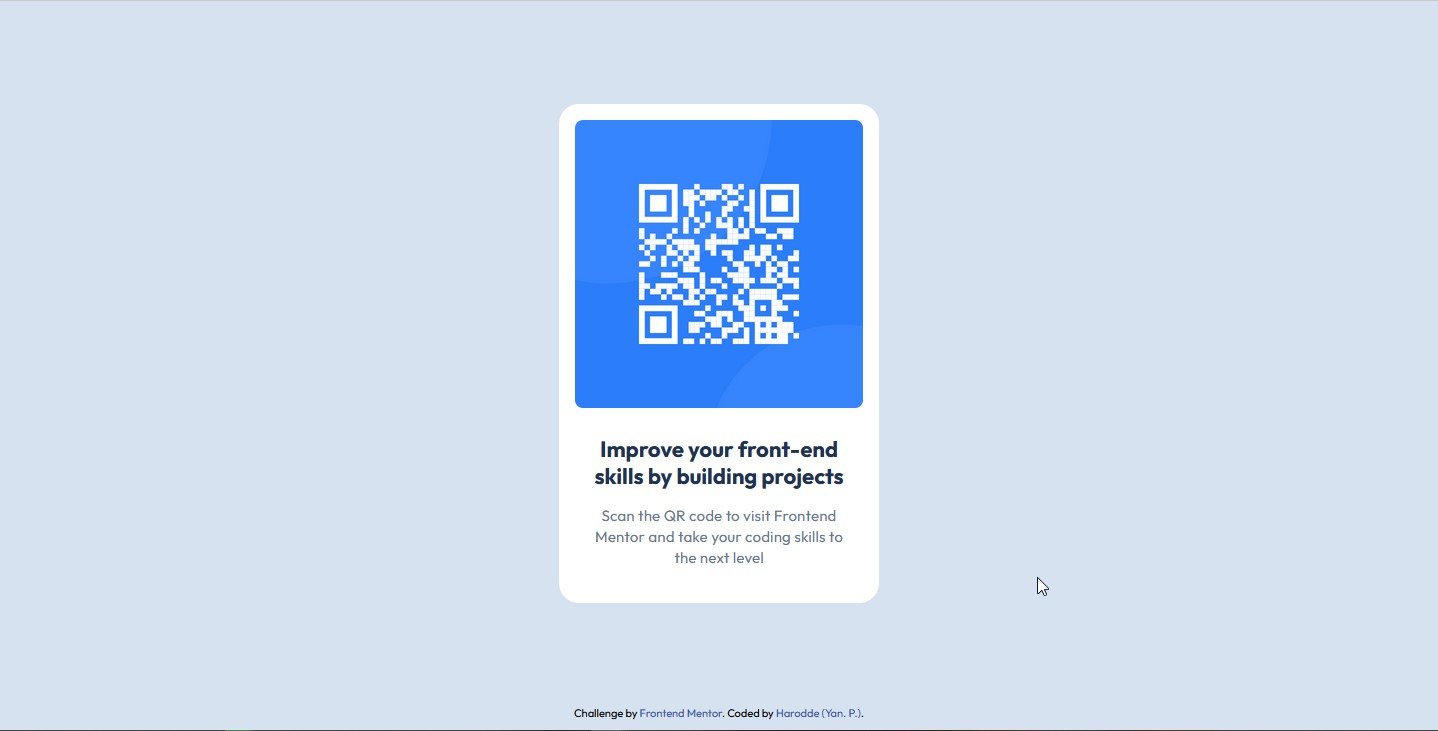
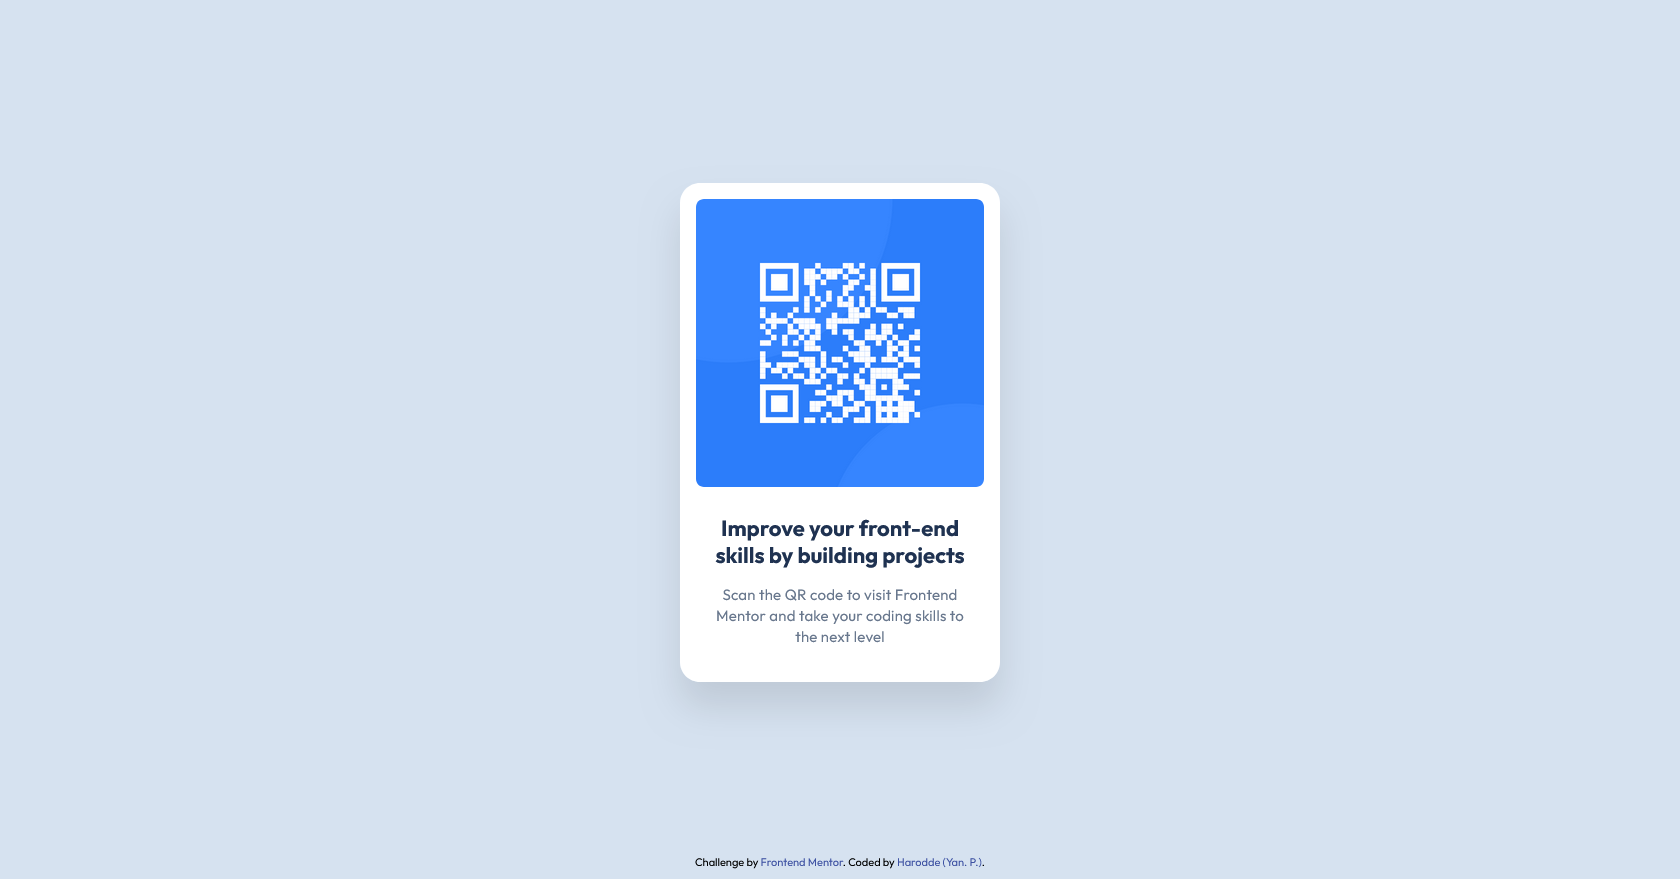
screenshot and box-shadow modification

Changed region(s): [[0.3672, 0.1204, 0.612, 0.8427], [0.0, 0.9631, 1.0, 1.0], [0.7038, 0.7825, 0.7344, 0.8126]]

diff --git a/assets/css/style.css b/assets/css/style.css
@@ -27,6 +27,9 @@ body {
     font-family: Outfit;
 
     min-height: 100vh;
+
+    padding-top: 10px;
+    /* Décalage par rapport au footer */
 }
 
 .main_container {
@@ -37,7 +40,8 @@ body {
     padding: 16px 16px 40px 16px;
     margin-top: auto;
     /* Supprime tout effet collant au haut de la page */
-    box-shadow: 0 10px 40px hsla(0, 0%, 0%, 0.1);
+    /* box-shadow: 0px 15px 20px -10px hsla(0, 0%, 0%, 0.2); */
+    box-shadow: 0px 25px 35px hsla(0, 0%, 0%, 0.1);
 }
 
 .main_container img {
